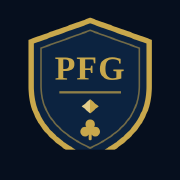
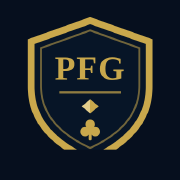
fix(brand): give the crest a body so it reads on the navy chrome
The shield fill was #0C2340, the same navy as the nav bar and footer, so the
shield body dissolved into the background and only the thin gold outline was
visible. In the reference logo the shield sits on white, where its navy body
reads as a solid object. Thickening the border alone does not restore that.

Darkens the shield fill to #071527 and raises the outer stroke from 1.6 to 2.4
with a slightly stronger inner hairline, applied to all 13 inline crest copies
across the six pages. The stat-chip checkmarks, which also used 1.6, are
deliberately untouched.

Regenerates the full icon set from the same refined geometry so the mark is
identical in the nav, the footer, the tab, and the home-screen icon.

https://claude.ai/code/session_01PRbR2Hkbu5fTnoyghBG7jj

diff --git a/index.html b/index.html
@@ -24,7 +24,7 @@
 <nav class="nav">
   <div class="wrap">
     <a class="brand" href="index.html">
-      <svg class="mark" viewBox="0 0 48 53" fill="none" aria-hidden="true"><path d="M24 1.5 L45 9 V25 C45 37.5 36.5 45.5 24 51 C11.5 45.5 3 37.5 3 25 V9 Z" fill="#0C2340" stroke="#C9A84C" stroke-width="1.6"/><path d="M24 5 L41.5 11.3 V24.6 C41.5 35.2 34.4 42 24 46.8 C13.6 42 6.5 35.2 6.5 24.6 V11.3 Z" fill="none" stroke="#C9A84C" stroke-width="0.5" opacity="0.5"/><text x="24" y="22.5" text-anchor="middle" font-family="Georgia, 'Times New Roman', serif" font-weight="700" font-size="11.5" fill="#C9A84C" letter-spacing="0.4">PFG</text><line x1="13" y1="27" x2="35" y2="27" stroke="#C9A84C" stroke-width="0.9" opacity="0.7"/><path d="M21 32 L24 29.5 L27 32 L24 34.5 Z" fill="#E3CD8B"/><path d="M24 29.5 L27 32 L24 34.5 Z" fill="#C9A84C"/><g transform="translate(24,40)"><circle cx="0" cy="-1.6" r="1.7" fill="#C9A84C"/><circle cx="-1.8" cy="1" r="1.7" fill="#C9A84C"/><circle cx="1.8" cy="1" r="1.7" fill="#C9A84C"/><path d="M0 0 L0 3.6" stroke="#C9A84C" stroke-width="1" stroke-linecap="round"/></g></svg>
+      <svg class="mark" viewBox="0 0 48 53" fill="none" aria-hidden="true"><path d="M24 1.5 L45 9 V25 C45 37.5 36.5 45.5 24 51 C11.5 45.5 3 37.5 3 25 V9 Z" fill="#071527" stroke="#C9A84C" stroke-width="2.4"/><path d="M24 5 L41.5 11.3 V24.6 C41.5 35.2 34.4 42 24 46.8 C13.6 42 6.5 35.2 6.5 24.6 V11.3 Z" fill="none" stroke="#C9A84C" stroke-width="0.7" opacity="0.55"/><text x="24" y="22.5" text-anchor="middle" font-family="Georgia, 'Times New Roman', serif" font-weight="700" font-size="11.5" fill="#C9A84C" letter-spacing="0.4">PFG</text><line x1="13" y1="27" x2="35" y2="27" stroke="#C9A84C" stroke-width="0.9" opacity="0.7"/><path d="M21 32 L24 29.5 L27 32 L24 34.5 Z" fill="#E3CD8B"/><path d="M24 29.5 L27 32 L24 34.5 Z" fill="#C9A84C"/><g transform="translate(24,40)"><circle cx="0" cy="-1.6" r="1.7" fill="#C9A84C"/><circle cx="-1.8" cy="1" r="1.7" fill="#C9A84C"/><circle cx="1.8" cy="1" r="1.7" fill="#C9A84C"/><path d="M0 0 L0 3.6" stroke="#C9A84C" stroke-width="1" stroke-linecap="round"/></g></svg>
       <span class="name">Pioneer Federal Group<small>SDVOSB</small></span>
     </a>
     <button class="nav-toggle" aria-label="Open menu">&#9776;</button>
@@ -99,7 +99,7 @@
             </ul>
           </div>
           <div class="mark-panel">
-            <svg class="mark" viewBox="0 0 48 53" fill="none" aria-hidden="true"><path d="M24 1.5 L45 9 V25 C45 37.5 36.5 45.5 24 51 C11.5 45.5 3 37.5 3 25 V9 Z" fill="#0C2340" stroke="#C9A84C" stroke-width="1.6"/><path d="M24 5 L41.5 11.3 V24.6 C41.5 35.2 34.4 42 24 46.8 C13.6 42 6.5 35.2 6.5 24.6 V11.3 Z" fill="none" stroke="#C9A84C" stroke-width="0.5" opacity="0.5"/><text x="24" y="22.5" text-anchor="middle" font-family="Georgia, 'Times New Roman', serif" font-weight="700" font-size="11.5" fill="#C9A84C" letter-spacing="0.4">PFG</text><line x1="13" y1="27" x2="35" y2="27" stroke="#C9A84C" stroke-width="0.9" opacity="0.7"/><path d="M21 32 L24 29.5 L27 32 L24 34.5 Z" fill="#E3CD8B"/><path d="M24 29.5 L27 32 L24 34.5 Z" fill="#C9A84C"/><g transform="translate(24,40)"><circle cx="0" cy="-1.6" r="1.7" fill="#C9A84C"/><circle cx="-1.8" cy="1" r="1.7" fill="#C9A84C"/><circle cx="1.8" cy="1" r="1.7" fill="#C9A84C"/><path d="M0 0 L0 3.6" stroke="#C9A84C" stroke-width="1" stroke-linecap="round"/></g></svg>
+            <svg class="mark" viewBox="0 0 48 53" fill="none" aria-hidden="true"><path d="M24 1.5 L45 9 V25 C45 37.5 36.5 45.5 24 51 C11.5 45.5 3 37.5 3 25 V9 Z" fill="#071527" stroke="#C9A84C" stroke-width="2.4"/><path d="M24 5 L41.5 11.3 V24.6 C41.5 35.2 34.4 42 24 46.8 C13.6 42 6.5 35.2 6.5 24.6 V11.3 Z" fill="none" stroke="#C9A84C" stroke-width="0.7" opacity="0.55"/><text x="24" y="22.5" text-anchor="middle" font-family="Georgia, 'Times New Roman', serif" font-weight="700" font-size="11.5" fill="#C9A84C" letter-spacing="0.4">PFG</text><line x1="13" y1="27" x2="35" y2="27" stroke="#C9A84C" stroke-width="0.9" opacity="0.7"/><path d="M21 32 L24 29.5 L27 32 L24 34.5 Z" fill="#E3CD8B"/><path d="M24 29.5 L27 32 L24 34.5 Z" fill="#C9A84C"/><g transform="translate(24,40)"><circle cx="0" cy="-1.6" r="1.7" fill="#C9A84C"/><circle cx="-1.8" cy="1" r="1.7" fill="#C9A84C"/><circle cx="1.8" cy="1" r="1.7" fill="#C9A84C"/><path d="M0 0 L0 3.6" stroke="#C9A84C" stroke-width="1" stroke-linecap="round"/></g></svg>
             <span class="sf">Semper Fidelis</span>
           </div>
         </div>
@@ -136,7 +136,7 @@
     <div class="top">
       <div>
         <a class="brandline" href="index.html">
-          <svg class="mark" viewBox="0 0 48 53" fill="none" aria-hidden="true"><path d="M24 1.5 L45 9 V25 C45 37.5 36.5 45.5 24 51 C11.5 45.5 3 37.5 3 25 V9 Z" fill="#0C2340" stroke="#C9A84C" stroke-width="1.6"/><path d="M24 5 L41.5 11.3 V24.6 C41.5 35.2 34.4 42 24 46.8 C13.6 42 6.5 35.2 6.5 24.6 V11.3 Z" fill="none" stroke="#C9A84C" stroke-width="0.5" opacity="0.5"/><text x="24" y="22.5" text-anchor="middle" font-family="Georgia, 'Times New Roman', serif" font-weight="700" font-size="11.5" fill="#C9A84C" letter-spacing="0.4">PFG</text><line x1="13" y1="27" x2="35" y2="27" stroke="#C9A84C" stroke-width="0.9" opacity="0.7"/><path d="M21 32 L24 29.5 L27 32 L24 34.5 Z" fill="#E3CD8B"/><path d="M24 29.5 L27 32 L24 34.5 Z" fill="#C9A84C"/><g transform="translate(24,40)"><circle cx="0" cy="-1.6" r="1.7" fill="#C9A84C"/><circle cx="-1.8" cy="1" r="1.7" fill="#C9A84C"/><circle cx="1.8" cy="1" r="1.7" fill="#C9A84C"/><path d="M0 0 L0 3.6" stroke="#C9A84C" stroke-width="1" stroke-linecap="round"/></g></svg>
+          <svg class="mark" viewBox="0 0 48 53" fill="none" aria-hidden="true"><path d="M24 1.5 L45 9 V25 C45 37.5 36.5 45.5 24 51 C11.5 45.5 3 37.5 3 25 V9 Z" fill="#071527" stroke="#C9A84C" stroke-width="2.4"/><path d="M24 5 L41.5 11.3 V24.6 C41.5 35.2 34.4 42 24 46.8 C13.6 42 6.5 35.2 6.5 24.6 V11.3 Z" fill="none" stroke="#C9A84C" stroke-width="0.7" opacity="0.55"/><text x="24" y="22.5" text-anchor="middle" font-family="Georgia, 'Times New Roman', serif" font-weight="700" font-size="11.5" fill="#C9A84C" letter-spacing="0.4">PFG</text><line x1="13" y1="27" x2="35" y2="27" stroke="#C9A84C" stroke-width="0.9" opacity="0.7"/><path d="M21 32 L24 29.5 L27 32 L24 34.5 Z" fill="#E3CD8B"/><path d="M24 29.5 L27 32 L24 34.5 Z" fill="#C9A84C"/><g transform="translate(24,40)"><circle cx="0" cy="-1.6" r="1.7" fill="#C9A84C"/><circle cx="-1.8" cy="1" r="1.7" fill="#C9A84C"/><circle cx="1.8" cy="1" r="1.7" fill="#C9A84C"/><path d="M0 0 L0 3.6" stroke="#C9A84C" stroke-width="1" stroke-linecap="round"/></g></svg>
           <span>Pioneer Federal Group</span>
         </a>
         <p>A service-disabled veteran-owned contracting company delivering facilities, logistics, construction, and general services to federal agencies.</p>

diff --git a/faq.html b/faq.html
@@ -176,7 +176,7 @@
 <nav class="nav">
   <div class="wrap">
     <a class="brand" href="index.html">
-      <svg class="mark" viewBox="0 0 48 53" fill="none" aria-hidden="true"><path d="M24 1.5 L45 9 V25 C45 37.5 36.5 45.5 24 51 C11.5 45.5 3 37.5 3 25 V9 Z" fill="#0C2340" stroke="#C9A84C" stroke-width="1.6"/><path d="M24 5 L41.5 11.3 V24.6 C41.5 35.2 34.4 42 24 46.8 C13.6 42 6.5 35.2 6.5 24.6 V11.3 Z" fill="none" stroke="#C9A84C" stroke-width="0.5" opacity="0.5"/><text x="24" y="22.5" text-anchor="middle" font-family="Georgia, 'Times New Roman', serif" font-weight="700" font-size="11.5" fill="#C9A84C" letter-spacing="0.4">PFG</text><line x1="13" y1="27" x2="35" y2="27" stroke="#C9A84C" stroke-width="0.9" opacity="0.7"/><path d="M21 32 L24 29.5 L27 32 L24 34.5 Z" fill="#E3CD8B"/><path d="M24 29.5 L27 32 L24 34.5 Z" fill="#C9A84C"/><g transform="translate(24,40)"><circle cx="0" cy="-1.6" r="1.7" fill="#C9A84C"/><circle cx="-1.8" cy="1" r="1.7" fill="#C9A84C"/><circle cx="1.8" cy="1" r="1.7" fill="#C9A84C"/><path d="M0 0 L0 3.6" stroke="#C9A84C" stroke-width="1" stroke-linecap="round"/></g></svg>
+      <svg class="mark" viewBox="0 0 48 53" fill="none" aria-hidden="true"><path d="M24 1.5 L45 9 V25 C45 37.5 36.5 45.5 24 51 C11.5 45.5 3 37.5 3 25 V9 Z" fill="#071527" stroke="#C9A84C" stroke-width="2.4"/><path d="M24 5 L41.5 11.3 V24.6 C41.5 35.2 34.4 42 24 46.8 C13.6 42 6.5 35.2 6.5 24.6 V11.3 Z" fill="none" stroke="#C9A84C" stroke-width="0.7" opacity="0.55"/><text x="24" y="22.5" text-anchor="middle" font-family="Georgia, 'Times New Roman', serif" font-weight="700" font-size="11.5" fill="#C9A84C" letter-spacing="0.4">PFG</text><line x1="13" y1="27" x2="35" y2="27" stroke="#C9A84C" stroke-width="0.9" opacity="0.7"/><path d="M21 32 L24 29.5 L27 32 L24 34.5 Z" fill="#E3CD8B"/><path d="M24 29.5 L27 32 L24 34.5 Z" fill="#C9A84C"/><g transform="translate(24,40)"><circle cx="0" cy="-1.6" r="1.7" fill="#C9A84C"/><circle cx="-1.8" cy="1" r="1.7" fill="#C9A84C"/><circle cx="1.8" cy="1" r="1.7" fill="#C9A84C"/><path d="M0 0 L0 3.6" stroke="#C9A84C" stroke-width="1" stroke-linecap="round"/></g></svg>
       <span class="name">Pioneer Federal Group<small>SDVOSB</small></span>
     </a>
     <button class="nav-toggle" aria-label="Open menu">&#9776;</button>
@@ -334,7 +334,7 @@
     <div class="top">
       <div>
         <a class="brandline" href="index.html">
-          <svg class="mark" viewBox="0 0 48 53" fill="none" aria-hidden="true"><path d="M24 1.5 L45 9 V25 C45 37.5 36.5 45.5 24 51 C11.5 45.5 3 37.5 3 25 V9 Z" fill="#0C2340" stroke="#C9A84C" stroke-width="1.6"/><path d="M24 5 L41.5 11.3 V24.6 C41.5 35.2 34.4 42 24 46.8 C13.6 42 6.5 35.2 6.5 24.6 V11.3 Z" fill="none" stroke="#C9A84C" stroke-width="0.5" opacity="0.5"/><text x="24" y="22.5" text-anchor="middle" font-family="Georgia, 'Times New Roman', serif" font-weight="700" font-size="11.5" fill="#C9A84C" letter-spacing="0.4">PFG</text><line x1="13" y1="27" x2="35" y2="27" stroke="#C9A84C" stroke-width="0.9" opacity="0.7"/><path d="M21 32 L24 29.5 L27 32 L24 34.5 Z" fill="#E3CD8B"/><path d="M24 29.5 L27 32 L24 34.5 Z" fill="#C9A84C"/><g transform="translate(24,40)"><circle cx="0" cy="-1.6" r="1.7" fill="#C9A84C"/><circle cx="-1.8" cy="1" r="1.7" fill="#C9A84C"/><circle cx="1.8" cy="1" r="1.7" fill="#C9A84C"/><path d="M0 0 L0 3.6" stroke="#C9A84C" stroke-width="1" stroke-linecap="round"/></g></svg>
+          <svg class="mark" viewBox="0 0 48 53" fill="none" aria-hidden="true"><path d="M24 1.5 L45 9 V25 C45 37.5 36.5 45.5 24 51 C11.5 45.5 3 37.5 3 25 V9 Z" fill="#071527" stroke="#C9A84C" stroke-width="2.4"/><path d="M24 5 L41.5 11.3 V24.6 C41.5 35.2 34.4 42 24 46.8 C13.6 42 6.5 35.2 6.5 24.6 V11.3 Z" fill="none" stroke="#C9A84C" stroke-width="0.7" opacity="0.55"/><text x="24" y="22.5" text-anchor="middle" font-family="Georgia, 'Times New Roman', serif" font-weight="700" font-size="11.5" fill="#C9A84C" letter-spacing="0.4">PFG</text><line x1="13" y1="27" x2="35" y2="27" stroke="#C9A84C" stroke-width="0.9" opacity="0.7"/><path d="M21 32 L24 29.5 L27 32 L24 34.5 Z" fill="#E3CD8B"/><path d="M24 29.5 L27 32 L24 34.5 Z" fill="#C9A84C"/><g transform="translate(24,40)"><circle cx="0" cy="-1.6" r="1.7" fill="#C9A84C"/><circle cx="-1.8" cy="1" r="1.7" fill="#C9A84C"/><circle cx="1.8" cy="1" r="1.7" fill="#C9A84C"/><path d="M0 0 L0 3.6" stroke="#C9A84C" stroke-width="1" stroke-linecap="round"/></g></svg>
           <span>Pioneer Federal Group</span>
         </a>
         <p>A service-disabled veteran-owned contracting company delivering facilities, logistics, construction, and general services to federal agencies.</p>

diff --git a/about.html b/about.html
@@ -24,7 +24,7 @@
 <nav class="nav">
   <div class="wrap">
     <a class="brand" href="index.html">
-      <svg class="mark" viewBox="0 0 48 53" fill="none" aria-hidden="true"><path d="M24 1.5 L45 9 V25 C45 37.5 36.5 45.5 24 51 C11.5 45.5 3 37.5 3 25 V9 Z" fill="#0C2340" stroke="#C9A84C" stroke-width="1.6"/><path d="M24 5 L41.5 11.3 V24.6 C41.5 35.2 34.4 42 24 46.8 C13.6 42 6.5 35.2 6.5 24.6 V11.3 Z" fill="none" stroke="#C9A84C" stroke-width="0.5" opacity="0.5"/><text x="24" y="22.5" text-anchor="middle" font-family="Georgia, 'Times New Roman', serif" font-weight="700" font-size="11.5" fill="#C9A84C" letter-spacing="0.4">PFG</text><line x1="13" y1="27" x2="35" y2="27" stroke="#C9A84C" stroke-width="0.9" opacity="0.7"/><path d="M21 32 L24 29.5 L27 32 L24 34.5 Z" fill="#E3CD8B"/><path d="M24 29.5 L27 32 L24 34.5 Z" fill="#C9A84C"/><g transform="translate(24,40)"><circle cx="0" cy="-1.6" r="1.7" fill="#C9A84C"/><circle cx="-1.8" cy="1" r="1.7" fill="#C9A84C"/><circle cx="1.8" cy="1" r="1.7" fill="#C9A84C"/><path d="M0 0 L0 3.6" stroke="#C9A84C" stroke-width="1" stroke-linecap="round"/></g></svg>
+      <svg class="mark" viewBox="0 0 48 53" fill="none" aria-hidden="true"><path d="M24 1.5 L45 9 V25 C45 37.5 36.5 45.5 24 51 C11.5 45.5 3 37.5 3 25 V9 Z" fill="#071527" stroke="#C9A84C" stroke-width="2.4"/><path d="M24 5 L41.5 11.3 V24.6 C41.5 35.2 34.4 42 24 46.8 C13.6 42 6.5 35.2 6.5 24.6 V11.3 Z" fill="none" stroke="#C9A84C" stroke-width="0.7" opacity="0.55"/><text x="24" y="22.5" text-anchor="middle" font-family="Georgia, 'Times New Roman', serif" font-weight="700" font-size="11.5" fill="#C9A84C" letter-spacing="0.4">PFG</text><line x1="13" y1="27" x2="35" y2="27" stroke="#C9A84C" stroke-width="0.9" opacity="0.7"/><path d="M21 32 L24 29.5 L27 32 L24 34.5 Z" fill="#E3CD8B"/><path d="M24 29.5 L27 32 L24 34.5 Z" fill="#C9A84C"/><g transform="translate(24,40)"><circle cx="0" cy="-1.6" r="1.7" fill="#C9A84C"/><circle cx="-1.8" cy="1" r="1.7" fill="#C9A84C"/><circle cx="1.8" cy="1" r="1.7" fill="#C9A84C"/><path d="M0 0 L0 3.6" stroke="#C9A84C" stroke-width="1" stroke-linecap="round"/></g></svg>
       <span class="name">Pioneer Federal Group<small>SDVOSB</small></span>
     </a>
     <button class="nav-toggle" aria-label="Open menu">&#9776;</button>
@@ -118,7 +118,7 @@
     <div class="top">
       <div>
         <a class="brandline" href="index.html">
-          <svg class="mark" viewBox="0 0 48 53" fill="none" aria-hidden="true"><path d="M24 1.5 L45 9 V25 C45 37.5 36.5 45.5 24 51 C11.5 45.5 3 37.5 3 25 V9 Z" fill="#0C2340" stroke="#C9A84C" stroke-width="1.6"/><path d="M24 5 L41.5 11.3 V24.6 C41.5 35.2 34.4 42 24 46.8 C13.6 42 6.5 35.2 6.5 24.6 V11.3 Z" fill="none" stroke="#C9A84C" stroke-width="0.5" opacity="0.5"/><text x="24" y="22.5" text-anchor="middle" font-family="Georgia, 'Times New Roman', serif" font-weight="700" font-size="11.5" fill="#C9A84C" letter-spacing="0.4">PFG</text><line x1="13" y1="27" x2="35" y2="27" stroke="#C9A84C" stroke-width="0.9" opacity="0.7"/><path d="M21 32 L24 29.5 L27 32 L24 34.5 Z" fill="#E3CD8B"/><path d="M24 29.5 L27 32 L24 34.5 Z" fill="#C9A84C"/><g transform="translate(24,40)"><circle cx="0" cy="-1.6" r="1.7" fill="#C9A84C"/><circle cx="-1.8" cy="1" r="1.7" fill="#C9A84C"/><circle cx="1.8" cy="1" r="1.7" fill="#C9A84C"/><path d="M0 0 L0 3.6" stroke="#C9A84C" stroke-width="1" stroke-linecap="round"/></g></svg>
+          <svg class="mark" viewBox="0 0 48 53" fill="none" aria-hidden="true"><path d="M24 1.5 L45 9 V25 C45 37.5 36.5 45.5 24 51 C11.5 45.5 3 37.5 3 25 V9 Z" fill="#071527" stroke="#C9A84C" stroke-width="2.4"/><path d="M24 5 L41.5 11.3 V24.6 C41.5 35.2 34.4 42 24 46.8 C13.6 42 6.5 35.2 6.5 24.6 V11.3 Z" fill="none" stroke="#C9A84C" stroke-width="0.7" opacity="0.55"/><text x="24" y="22.5" text-anchor="middle" font-family="Georgia, 'Times New Roman', serif" font-weight="700" font-size="11.5" fill="#C9A84C" letter-spacing="0.4">PFG</text><line x1="13" y1="27" x2="35" y2="27" stroke="#C9A84C" stroke-width="0.9" opacity="0.7"/><path d="M21 32 L24 29.5 L27 32 L24 34.5 Z" fill="#E3CD8B"/><path d="M24 29.5 L27 32 L24 34.5 Z" fill="#C9A84C"/><g transform="translate(24,40)"><circle cx="0" cy="-1.6" r="1.7" fill="#C9A84C"/><circle cx="-1.8" cy="1" r="1.7" fill="#C9A84C"/><circle cx="1.8" cy="1" r="1.7" fill="#C9A84C"/><path d="M0 0 L0 3.6" stroke="#C9A84C" stroke-width="1" stroke-linecap="round"/></g></svg>
           <span>Pioneer Federal Group</span>
         </a>
         <p>A service-disabled veteran-owned contracting company delivering facilities, logistics, construction, and general services to federal agencies.</p>

diff --git a/capability-statement.html b/capability-statement.html
@@ -24,7 +24,7 @@
 <nav class="nav">
   <div class="wrap">
     <a class="brand" href="index.html">
-      <svg class="mark" viewBox="0 0 48 53" fill="none" aria-hidden="true"><path d="M24 1.5 L45 9 V25 C45 37.5 36.5 45.5 24 51 C11.5 45.5 3 37.5 3 25 V9 Z" fill="#0C2340" stroke="#C9A84C" stroke-width="1.6"/><path d="M24 5 L41.5 11.3 V24.6 C41.5 35.2 34.4 42 24 46.8 C13.6 42 6.5 35.2 6.5 24.6 V11.3 Z" fill="none" stroke="#C9A84C" stroke-width="0.5" opacity="0.5"/><text x="24" y="22.5" text-anchor="middle" font-family="Georgia, 'Times New Roman', serif" font-weight="700" font-size="11.5" fill="#C9A84C" letter-spacing="0.4">PFG</text><line x1="13" y1="27" x2="35" y2="27" stroke="#C9A84C" stroke-width="0.9" opacity="0.7"/><path d="M21 32 L24 29.5 L27 32 L24 34.5 Z" fill="#E3CD8B"/><path d="M24 29.5 L27 32 L24 34.5 Z" fill="#C9A84C"/><g transform="translate(24,40)"><circle cx="0" cy="-1.6" r="1.7" fill="#C9A84C"/><circle cx="-1.8" cy="1" r="1.7" fill="#C9A84C"/><circle cx="1.8" cy="1" r="1.7" fill="#C9A84C"/><path d="M0 0 L0 3.6" stroke="#C9A84C" stroke-width="1" stroke-linecap="round"/></g></svg>
+      <svg class="mark" viewBox="0 0 48 53" fill="none" aria-hidden="true"><path d="M24 1.5 L45 9 V25 C45 37.5 36.5 45.5 24 51 C11.5 45.5 3 37.5 3 25 V9 Z" fill="#071527" stroke="#C9A84C" stroke-width="2.4"/><path d="M24 5 L41.5 11.3 V24.6 C41.5 35.2 34.4 42 24 46.8 C13.6 42 6.5 35.2 6.5 24.6 V11.3 Z" fill="none" stroke="#C9A84C" stroke-width="0.7" opacity="0.55"/><text x="24" y="22.5" text-anchor="middle" font-family="Georgia, 'Times New Roman', serif" font-weight="700" font-size="11.5" fill="#C9A84C" letter-spacing="0.4">PFG</text><line x1="13" y1="27" x2="35" y2="27" stroke="#C9A84C" stroke-width="0.9" opacity="0.7"/><path d="M21 32 L24 29.5 L27 32 L24 34.5 Z" fill="#E3CD8B"/><path d="M24 29.5 L27 32 L24 34.5 Z" fill="#C9A84C"/><g transform="translate(24,40)"><circle cx="0" cy="-1.6" r="1.7" fill="#C9A84C"/><circle cx="-1.8" cy="1" r="1.7" fill="#C9A84C"/><circle cx="1.8" cy="1" r="1.7" fill="#C9A84C"/><path d="M0 0 L0 3.6" stroke="#C9A84C" stroke-width="1" stroke-linecap="round"/></g></svg>
       <span class="name">Pioneer Federal Group<small>SDVOSB</small></span>
     </a>
     <button class="nav-toggle" aria-label="Open menu">&#9776;</button>
@@ -108,7 +108,7 @@
     <div class="top">
       <div>
         <a class="brandline" href="index.html">
-          <svg class="mark" viewBox="0 0 48 53" fill="none" aria-hidden="true"><path d="M24 1.5 L45 9 V25 C45 37.5 36.5 45.5 24 51 C11.5 45.5 3 37.5 3 25 V9 Z" fill="#0C2340" stroke="#C9A84C" stroke-width="1.6"/><path d="M24 5 L41.5 11.3 V24.6 C41.5 35.2 34.4 42 24 46.8 C13.6 42 6.5 35.2 6.5 24.6 V11.3 Z" fill="none" stroke="#C9A84C" stroke-width="0.5" opacity="0.5"/><text x="24" y="22.5" text-anchor="middle" font-family="Georgia, 'Times New Roman', serif" font-weight="700" font-size="11.5" fill="#C9A84C" letter-spacing="0.4">PFG</text><line x1="13" y1="27" x2="35" y2="27" stroke="#C9A84C" stroke-width="0.9" opacity="0.7"/><path d="M21 32 L24 29.5 L27 32 L24 34.5 Z" fill="#E3CD8B"/><path d="M24 29.5 L27 32 L24 34.5 Z" fill="#C9A84C"/><g transform="translate(24,40)"><circle cx="0" cy="-1.6" r="1.7" fill="#C9A84C"/><circle cx="-1.8" cy="1" r="1.7" fill="#C9A84C"/><circle cx="1.8" cy="1" r="1.7" fill="#C9A84C"/><path d="M0 0 L0 3.6" stroke="#C9A84C" stroke-width="1" stroke-linecap="round"/></g></svg>
+          <svg class="mark" viewBox="0 0 48 53" fill="none" aria-hidden="true"><path d="M24 1.5 L45 9 V25 C45 37.5 36.5 45.5 24 51 C11.5 45.5 3 37.5 3 25 V9 Z" fill="#071527" stroke="#C9A84C" stroke-width="2.4"/><path d="M24 5 L41.5 11.3 V24.6 C41.5 35.2 34.4 42 24 46.8 C13.6 42 6.5 35.2 6.5 24.6 V11.3 Z" fill="none" stroke="#C9A84C" stroke-width="0.7" opacity="0.55"/><text x="24" y="22.5" text-anchor="middle" font-family="Georgia, 'Times New Roman', serif" font-weight="700" font-size="11.5" fill="#C9A84C" letter-spacing="0.4">PFG</text><line x1="13" y1="27" x2="35" y2="27" stroke="#C9A84C" stroke-width="0.9" opacity="0.7"/><path d="M21 32 L24 29.5 L27 32 L24 34.5 Z" fill="#E3CD8B"/><path d="M24 29.5 L27 32 L24 34.5 Z" fill="#C9A84C"/><g transform="translate(24,40)"><circle cx="0" cy="-1.6" r="1.7" fill="#C9A84C"/><circle cx="-1.8" cy="1" r="1.7" fill="#C9A84C"/><circle cx="1.8" cy="1" r="1.7" fill="#C9A84C"/><path d="M0 0 L0 3.6" stroke="#C9A84C" stroke-width="1" stroke-linecap="round"/></g></svg>
           <span>Pioneer Federal Group</span>
         </a>
         <p>A service-disabled veteran-owned contracting company delivering facilities, logistics, construction, and general services to federal agencies.</p>

diff --git a/contact.html b/contact.html
@@ -24,7 +24,7 @@
 <nav class="nav">
   <div class="wrap">
     <a class="brand" href="index.html">
-      <svg class="mark" viewBox="0 0 48 53" fill="none" aria-hidden="true"><path d="M24 1.5 L45 9 V25 C45 37.5 36.5 45.5 24 51 C11.5 45.5 3 37.5 3 25 V9 Z" fill="#0C2340" stroke="#C9A84C" stroke-width="1.6"/><path d="M24 5 L41.5 11.3 V24.6 C41.5 35.2 34.4 42 24 46.8 C13.6 42 6.5 35.2 6.5 24.6 V11.3 Z" fill="none" stroke="#C9A84C" stroke-width="0.5" opacity="0.5"/><text x="24" y="22.5" text-anchor="middle" font-family="Georgia, 'Times New Roman', serif" font-weight="700" font-size="11.5" fill="#C9A84C" letter-spacing="0.4">PFG</text><line x1="13" y1="27" x2="35" y2="27" stroke="#C9A84C" stroke-width="0.9" opacity="0.7"/><path d="M21 32 L24 29.5 L27 32 L24 34.5 Z" fill="#E3CD8B"/><path d="M24 29.5 L27 32 L24 34.5 Z" fill="#C9A84C"/><g transform="translate(24,40)"><circle cx="0" cy="-1.6" r="1.7" fill="#C9A84C"/><circle cx="-1.8" cy="1" r="1.7" fill="#C9A84C"/><circle cx="1.8" cy="1" r="1.7" fill="#C9A84C"/><path d="M0 0 L0 3.6" stroke="#C9A84C" stroke-width="1" stroke-linecap="round"/></g></svg>
+      <svg class="mark" viewBox="0 0 48 53" fill="none" aria-hidden="true"><path d="M24 1.5 L45 9 V25 C45 37.5 36.5 45.5 24 51 C11.5 45.5 3 37.5 3 25 V9 Z" fill="#071527" stroke="#C9A84C" stroke-width="2.4"/><path d="M24 5 L41.5 11.3 V24.6 C41.5 35.2 34.4 42 24 46.8 C13.6 42 6.5 35.2 6.5 24.6 V11.3 Z" fill="none" stroke="#C9A84C" stroke-width="0.7" opacity="0.55"/><text x="24" y="22.5" text-anchor="middle" font-family="Georgia, 'Times New Roman', serif" font-weight="700" font-size="11.5" fill="#C9A84C" letter-spacing="0.4">PFG</text><line x1="13" y1="27" x2="35" y2="27" stroke="#C9A84C" stroke-width="0.9" opacity="0.7"/><path d="M21 32 L24 29.5 L27 32 L24 34.5 Z" fill="#E3CD8B"/><path d="M24 29.5 L27 32 L24 34.5 Z" fill="#C9A84C"/><g transform="translate(24,40)"><circle cx="0" cy="-1.6" r="1.7" fill="#C9A84C"/><circle cx="-1.8" cy="1" r="1.7" fill="#C9A84C"/><circle cx="1.8" cy="1" r="1.7" fill="#C9A84C"/><path d="M0 0 L0 3.6" stroke="#C9A84C" stroke-width="1" stroke-linecap="round"/></g></svg>
       <span class="name">Pioneer Federal Group<small>SDVOSB</small></span>
     </a>
     <button class="nav-toggle" aria-label="Open menu">&#9776;</button>
@@ -178,7 +178,7 @@
     <div class="top">
       <div>
         <a class="brandline" href="index.html">
-          <svg class="mark" viewBox="0 0 48 53" fill="none" aria-hidden="true"><path d="M24 1.5 L45 9 V25 C45 37.5 36.5 45.5 24 51 C11.5 45.5 3 37.5 3 25 V9 Z" fill="#0C2340" stroke="#C9A84C" stroke-width="1.6"/><path d="M24 5 L41.5 11.3 V24.6 C41.5 35.2 34.4 42 24 46.8 C13.6 42 6.5 35.2 6.5 24.6 V11.3 Z" fill="none" stroke="#C9A84C" stroke-width="0.5" opacity="0.5"/><text x="24" y="22.5" text-anchor="middle" font-family="Georgia, 'Times New Roman', serif" font-weight="700" font-size="11.5" fill="#C9A84C" letter-spacing="0.4">PFG</text><line x1="13" y1="27" x2="35" y2="27" stroke="#C9A84C" stroke-width="0.9" opacity="0.7"/><path d="M21 32 L24 29.5 L27 32 L24 34.5 Z" fill="#E3CD8B"/><path d="M24 29.5 L27 32 L24 34.5 Z" fill="#C9A84C"/><g transform="translate(24,40)"><circle cx="0" cy="-1.6" r="1.7" fill="#C9A84C"/><circle cx="-1.8" cy="1" r="1.7" fill="#C9A84C"/><circle cx="1.8" cy="1" r="1.7" fill="#C9A84C"/><path d="M0 0 L0 3.6" stroke="#C9A84C" stroke-width="1" stroke-linecap="round"/></g></svg>
+          <svg class="mark" viewBox="0 0 48 53" fill="none" aria-hidden="true"><path d="M24 1.5 L45 9 V25 C45 37.5 36.5 45.5 24 51 C11.5 45.5 3 37.5 3 25 V9 Z" fill="#071527" stroke="#C9A84C" stroke-width="2.4"/><path d="M24 5 L41.5 11.3 V24.6 C41.5 35.2 34.4 42 24 46.8 C13.6 42 6.5 35.2 6.5 24.6 V11.3 Z" fill="none" stroke="#C9A84C" stroke-width="0.7" opacity="0.55"/><text x="24" y="22.5" text-anchor="middle" font-family="Georgia, 'Times New Roman', serif" font-weight="700" font-size="11.5" fill="#C9A84C" letter-spacing="0.4">PFG</text><line x1="13" y1="27" x2="35" y2="27" stroke="#C9A84C" stroke-width="0.9" opacity="0.7"/><path d="M21 32 L24 29.5 L27 32 L24 34.5 Z" fill="#E3CD8B"/><path d="M24 29.5 L27 32 L24 34.5 Z" fill="#C9A84C"/><g transform="translate(24,40)"><circle cx="0" cy="-1.6" r="1.7" fill="#C9A84C"/><circle cx="-1.8" cy="1" r="1.7" fill="#C9A84C"/><circle cx="1.8" cy="1" r="1.7" fill="#C9A84C"/><path d="M0 0 L0 3.6" stroke="#C9A84C" stroke-width="1" stroke-linecap="round"/></g></svg>
           <span>Pioneer Federal Group</span>
         </a>
         <p>A service-disabled veteran-owned contracting company delivering facilities, logistics, construction, and general services to federal agencies.</p>

diff --git a/services.html b/services.html
@@ -24,7 +24,7 @@
 <nav class="nav">
   <div class="wrap">
     <a class="brand" href="index.html">
-      <svg class="mark" viewBox="0 0 48 53" fill="none" aria-hidden="true"><path d="M24 1.5 L45 9 V25 C45 37.5 36.5 45.5 24 51 C11.5 45.5 3 37.5 3 25 V9 Z" fill="#0C2340" stroke="#C9A84C" stroke-width="1.6"/><path d="M24 5 L41.5 11.3 V24.6 C41.5 35.2 34.4 42 24 46.8 C13.6 42 6.5 35.2 6.5 24.6 V11.3 Z" fill="none" stroke="#C9A84C" stroke-width="0.5" opacity="0.5"/><text x="24" y="22.5" text-anchor="middle" font-family="Georgia, 'Times New Roman', serif" font-weight="700" font-size="11.5" fill="#C9A84C" letter-spacing="0.4">PFG</text><line x1="13" y1="27" x2="35" y2="27" stroke="#C9A84C" stroke-width="0.9" opacity="0.7"/><path d="M21 32 L24 29.5 L27 32 L24 34.5 Z" fill="#E3CD8B"/><path d="M24 29.5 L27 32 L24 34.5 Z" fill="#C9A84C"/><g transform="translate(24,40)"><circle cx="0" cy="-1.6" r="1.7" fill="#C9A84C"/><circle cx="-1.8" cy="1" r="1.7" fill="#C9A84C"/><circle cx="1.8" cy="1" r="1.7" fill="#C9A84C"/><path d="M0 0 L0 3.6" stroke="#C9A84C" stroke-width="1" stroke-linecap="round"/></g></svg>
+      <svg class="mark" viewBox="0 0 48 53" fill="none" aria-hidden="true"><path d="M24 1.5 L45 9 V25 C45 37.5 36.5 45.5 24 51 C11.5 45.5 3 37.5 3 25 V9 Z" fill="#071527" stroke="#C9A84C" stroke-width="2.4"/><path d="M24 5 L41.5 11.3 V24.6 C41.5 35.2 34.4 42 24 46.8 C13.6 42 6.5 35.2 6.5 24.6 V11.3 Z" fill="none" stroke="#C9A84C" stroke-width="0.7" opacity="0.55"/><text x="24" y="22.5" text-anchor="middle" font-family="Georgia, 'Times New Roman', serif" font-weight="700" font-size="11.5" fill="#C9A84C" letter-spacing="0.4">PFG</text><line x1="13" y1="27" x2="35" y2="27" stroke="#C9A84C" stroke-width="0.9" opacity="0.7"/><path d="M21 32 L24 29.5 L27 32 L24 34.5 Z" fill="#E3CD8B"/><path d="M24 29.5 L27 32 L24 34.5 Z" fill="#C9A84C"/><g transform="translate(24,40)"><circle cx="0" cy="-1.6" r="1.7" fill="#C9A84C"/><circle cx="-1.8" cy="1" r="1.7" fill="#C9A84C"/><circle cx="1.8" cy="1" r="1.7" fill="#C9A84C"/><path d="M0 0 L0 3.6" stroke="#C9A84C" stroke-width="1" stroke-linecap="round"/></g></svg>
       <span class="name">Pioneer Federal Group<small>SDVOSB</small></span>
     </a>
     <button class="nav-toggle" aria-label="Open menu">&#9776;</button>
@@ -165,7 +165,7 @@
     <div class="top">
       <div>
         <a class="brandline" href="index.html">
-          <svg class="mark" viewBox="0 0 48 53" fill="none" aria-hidden="true"><path d="M24 1.5 L45 9 V25 C45 37.5 36.5 45.5 24 51 C11.5 45.5 3 37.5 3 25 V9 Z" fill="#0C2340" stroke="#C9A84C" stroke-width="1.6"/><path d="M24 5 L41.5 11.3 V24.6 C41.5 35.2 34.4 42 24 46.8 C13.6 42 6.5 35.2 6.5 24.6 V11.3 Z" fill="none" stroke="#C9A84C" stroke-width="0.5" opacity="0.5"/><text x="24" y="22.5" text-anchor="middle" font-family="Georgia, 'Times New Roman', serif" font-weight="700" font-size="11.5" fill="#C9A84C" letter-spacing="0.4">PFG</text><line x1="13" y1="27" x2="35" y2="27" stroke="#C9A84C" stroke-width="0.9" opacity="0.7"/><path d="M21 32 L24 29.5 L27 32 L24 34.5 Z" fill="#E3CD8B"/><path d="M24 29.5 L27 32 L24 34.5 Z" fill="#C9A84C"/><g transform="translate(24,40)"><circle cx="0" cy="-1.6" r="1.7" fill="#C9A84C"/><circle cx="-1.8" cy="1" r="1.7" fill="#C9A84C"/><circle cx="1.8" cy="1" r="1.7" fill="#C9A84C"/><path d="M0 0 L0 3.6" stroke="#C9A84C" stroke-width="1" stroke-linecap="round"/></g></svg>
+          <svg class="mark" viewBox="0 0 48 53" fill="none" aria-hidden="true"><path d="M24 1.5 L45 9 V25 C45 37.5 36.5 45.5 24 51 C11.5 45.5 3 37.5 3 25 V9 Z" fill="#071527" stroke="#C9A84C" stroke-width="2.4"/><path d="M24 5 L41.5 11.3 V24.6 C41.5 35.2 34.4 42 24 46.8 C13.6 42 6.5 35.2 6.5 24.6 V11.3 Z" fill="none" stroke="#C9A84C" stroke-width="0.7" opacity="0.55"/><text x="24" y="22.5" text-anchor="middle" font-family="Georgia, 'Times New Roman', serif" font-weight="700" font-size="11.5" fill="#C9A84C" letter-spacing="0.4">PFG</text><line x1="13" y1="27" x2="35" y2="27" stroke="#C9A84C" stroke-width="0.9" opacity="0.7"/><path d="M21 32 L24 29.5 L27 32 L24 34.5 Z" fill="#E3CD8B"/><path d="M24 29.5 L27 32 L24 34.5 Z" fill="#C9A84C"/><g transform="translate(24,40)"><circle cx="0" cy="-1.6" r="1.7" fill="#C9A84C"/><circle cx="-1.8" cy="1" r="1.7" fill="#C9A84C"/><circle cx="1.8" cy="1" r="1.7" fill="#C9A84C"/><path d="M0 0 L0 3.6" stroke="#C9A84C" stroke-width="1" stroke-linecap="round"/></g></svg>
           <span>Pioneer Federal Group</span>
         </a>
         <p>A service-disabled veteran-owned contracting company delivering facilities, logistics, construction, and general services to federal agencies.</p>
